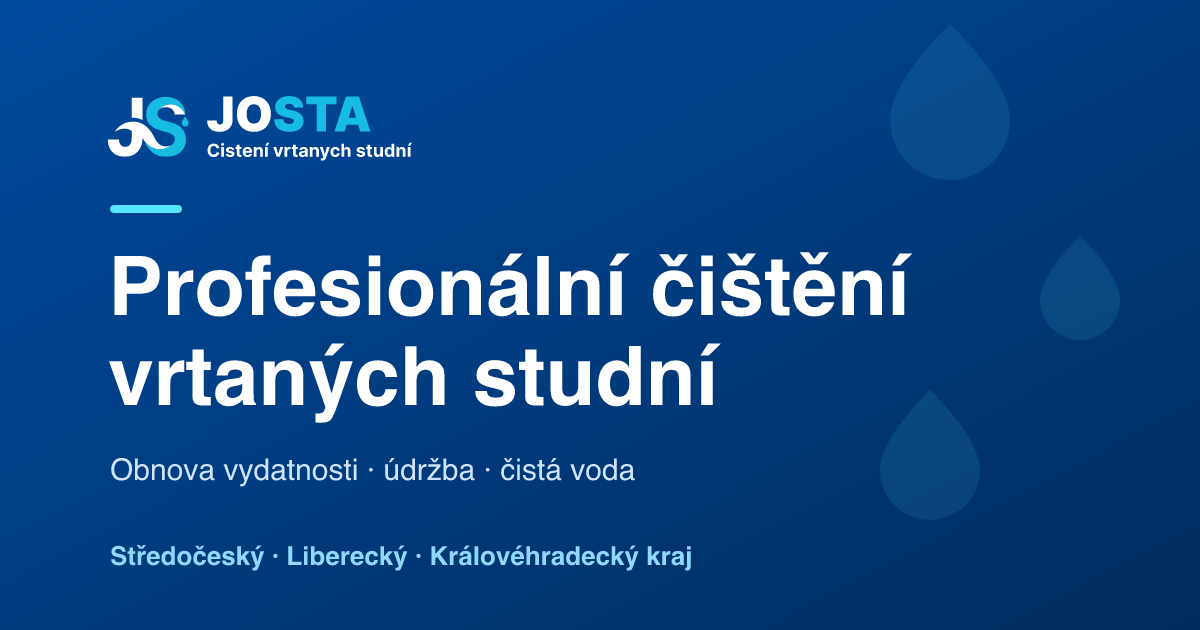
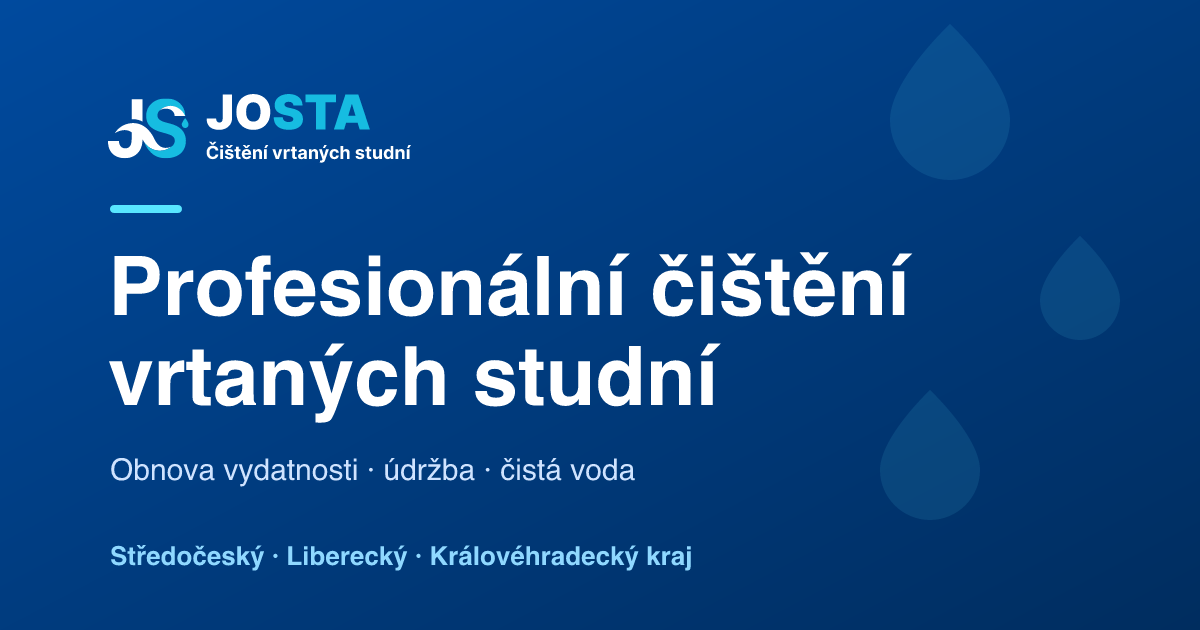
chore: responsiveness improvements

Changed region(s): [[0.0925, 0.1508, 0.3392, 0.2714]]

diff --git a/src/components/AppLogo.vue b/src/components/AppLogo.vue
@@ -13,27 +13,13 @@ withDefaults(defineProps<{ variant?: 'dark' | 'light' }>(), {
   >
     <svg
       class="logo__svg"
-      viewBox="0 0 203 44"
+      viewBox="0 0 203 46"
       fill="none"
       xmlns="http://www.w3.org/2000/svg"
       role="img"
       aria-hidden="true"
     >
-      <g clip-path="url(#logo-clip)">
-        <path fill-rule="evenodd" clip-rule="evenodd" d="M23.5902 28.7961C23.4004 28.4819 23.2106 28.1902 23.0228 27.9209V28.2201C23.0228 30.7241 22.5233 32.9 21.5251 34.7478C20.5259 36.5946 19.1406 38.0181 17.3692 39.0174C15.5968 40.0166 13.5373 40.5157 11.1901 40.5157C9.10209 40.5157 7.20871 40.1021 5.51069 39.2728C3.81172 38.4445 2.46648 37.1791 1.47303 35.4778C0.47958 33.7764 -0.0105134 31.6357 -2.59486e-05 29.0548H7.29635C7.31923 30.0797 7.50798 30.955 7.8636 31.6828C8.21922 32.4106 8.71027 32.9674 9.33666 33.3532C9.96305 33.739 10.7048 33.9314 11.5628 33.9314C12.4647 33.9314 13.2294 33.7133 13.8558 33.2773C14.4822 32.8402 14.9589 32.1979 15.2868 31.3504C15.6139 30.5029 15.7779 29.4599 15.7779 28.2201V23.2516C15.4556 22.9983 15.1019 22.7739 14.7148 22.5826C9.37669 19.9493 3.98803 24.455 4.57533 23.7123C4.54386 23.7144 4.5649 23.6727 4.64213 23.5755C5.5984 22.3807 8.03046 18.5408 13.8071 17.3716C23.9933 15.309 29.2343 23.9463 31.0419 27.783C31.5234 28.8079 32.3919 30.7059 34.6019 32.402C35.4667 33.0657 37.2134 33.647 38.4776 33.647C39.7189 33.647 40.7991 33.444 41.7191 33.04C42.2921 32.7878 42.785 32.4736 43.1978 32.0995C41.0536 34.0799 38.1124 35.543 34.7716 35.543C30.0141 35.543 26.1738 33.0347 24.0048 29.5186C23.8666 29.2653 23.7284 29.0248 23.5902 28.7961Z" fill="#003F87"/>
-        <path fill-rule="evenodd" clip-rule="evenodd" d="M42.4447 40.1854C42.0576 40.2613 41.659 40.3243 41.25 40.3756C40.3996 40.4814 39.5034 40.5349 38.5614 40.5349C35.7632 40.5349 32.103 40.008 28.951 36.9707C27.1148 35.202 25.942 33.5594 25.0096 31.6282C24.9848 31.5769 24.9658 31.5235 24.9439 31.4722C24.7637 31.0425 24.3976 30.2763 24.3976 30.2763C24.2669 30.0123 24.1363 29.7601 24.0048 29.5186C26.1738 33.0346 30.0141 35.5429 34.7716 35.5429C38.1123 35.5429 41.0536 34.0798 43.1978 32.0995C43.4476 31.8718 43.6688 31.6228 43.8605 31.3503C44.3686 30.63 44.6222 29.8007 44.6222 28.8645C44.6222 27.9924 44.3934 27.2582 43.9367 26.664C43.6173 26.2483 43.1959 25.8764 42.6724 25.5472C42.4465 25.4051 42.2025 25.2715 41.9393 25.1454C41.0641 24.7286 39.9954 24.3492 38.7311 24.0072L34.9556 22.9449C32.0334 22.1476 29.7252 20.9015 28.032 19.2065C26.3397 17.5115 25.4987 15.2277 25.5102 12.356C25.4987 10.0027 26.0603 7.9476 27.1939 6.18849C28.3284 4.43045 29.8892 3.05822 31.8751 2.07073C33.8611 1.0843 36.1188 0.590548 38.6463 0.590548C41.2195 0.590548 43.4686 1.0843 45.3925 2.07073C47.3165 3.05822 48.8143 4.43045 49.8869 6.18849C50.9585 7.9476 51.5115 9.98349 51.5458 12.2994C51.5458 12.2994 46.1352 5.5526 41.6781 5.5526C38.7444 5.5526 36.2322 6.81368 34.3492 8.79401C34.0937 9.02058 33.8735 9.27388 33.6876 9.55174L33.678 9.56668C33.2433 10.2239 33.0259 10.971 33.0259 11.8057C33.004 12.5014 33.1365 13.1084 33.4235 13.6278C33.7114 14.1461 34.1099 14.5918 34.6171 14.9648C35.1253 15.3388 35.7117 15.6605 36.3781 15.9331C37.0436 16.2045 37.7548 16.4354 38.5108 16.6256L41.6257 17.4602C43.1378 17.8396 44.5259 18.3462 45.7901 18.9789C47.0543 19.6116 48.1489 20.3885 49.0746 21.313C49.9994 22.2363 50.7192 23.3242 51.2321 24.5768C51.746 25.8283 52.0083 27.2646 52.0197 28.8837C52.0083 31.2616 51.4695 33.3211 50.4027 35.061C49.3368 36.7998 47.8018 38.1474 45.7987 39.1028C44.7852 39.5859 43.6679 39.946 42.4447 40.1854Z" fill="#16BCE1"/>
-        <path fill-rule="evenodd" clip-rule="evenodd" d="M15.7778 14.5245V1.12275H23.0228V16.0442C21.0082 14.9563 18.6056 14.315 15.7778 14.5245Z" fill="#003F87"/>
-        <path fill-rule="evenodd" clip-rule="evenodd" d="M51.5458 12.2994H44.5202C44.3848 10.7679 43.8041 9.57955 42.7773 8.73206C41.7496 7.8835 40.3566 7.46028 38.5957 7.46028C37.3992 7.46028 36.3895 7.64729 35.5658 8.02028C35.0977 8.23188 34.6924 8.49051 34.3502 8.79403C36.2322 6.81369 38.7443 5.55262 41.678 5.55262C46.1352 5.55262 49.7277 8.41035 51.5458 12.2994Z" fill="#003F87"/>
-        <path d="M52.761 15.4221C52.2364 14.6029 51.7042 13.9274 51.6988 13.9206L51.5456 13.7266L51.3924 13.9206C51.387 13.9274 50.8548 14.6029 50.3302 15.4221C49.6124 16.5429 49.2485 17.3915 49.2485 17.9444C49.2485 19.2918 50.279 20.388 51.5456 20.388C52.8123 20.388 53.8427 19.2918 53.8427 17.9444C53.8427 17.3915 53.4788 16.5429 52.761 15.4221Z" fill="#16BCE1"/>
-      </g>
-      <path d="M76.9498 0.318182H83.1771V16.2727C83.1695 17.7879 82.7869 19.1212 82.0294 20.2727C81.2794 21.4167 80.2415 22.3106 78.9157 22.9545C77.5976 23.5909 76.0786 23.9091 74.3589 23.9091C72.8665 23.9091 71.5029 23.6515 70.268 23.1364C69.0332 22.6136 68.0483 21.7955 67.3135 20.6818C66.5786 19.5606 66.215 18.1061 66.2226 16.3182H72.5407C72.5635 16.9015 72.6619 17.3939 72.8362 17.7955C73.018 18.197 73.268 18.5 73.5862 18.7045C73.9119 18.9015 74.3059 19 74.768 19C75.2377 19 75.6316 18.8977 75.9498 18.6932C76.2756 18.4886 76.5218 18.1856 76.6885 17.7841C76.8551 17.375 76.9423 16.8712 76.9498 16.2727V0.318182ZM108.717 11.9545C108.717 14.5455 108.213 16.7311 107.206 18.5114C106.198 20.2841 104.838 21.6288 103.126 22.5455C101.414 23.4545 99.5048 23.9091 97.3987 23.9091C95.2775 23.9091 93.3608 23.4508 91.6487 22.5341C89.9441 21.6098 88.5881 20.2614 87.5805 18.4886C86.5805 16.7083 86.0805 14.5303 86.0805 11.9545C86.0805 9.36364 86.5805 7.18182 87.5805 5.40909C88.5881 3.62879 89.9441 2.28409 91.6487 1.375C93.3608 0.458333 95.2775 0 97.3987 0C99.5048 0 101.414 0.458333 103.126 1.375C104.838 2.28409 106.198 3.62879 107.206 5.40909C108.213 7.18182 108.717 9.36364 108.717 11.9545ZM102.217 11.9545C102.217 10.5606 102.031 9.38636 101.66 8.43182C101.296 7.4697 100.755 6.74242 100.035 6.25C99.3229 5.75 98.4441 5.5 97.3987 5.5C96.3532 5.5 95.4707 5.75 94.751 6.25C94.0388 6.74242 93.4972 7.4697 93.126 8.43182C92.7623 9.38636 92.5805 10.5606 92.5805 11.9545C92.5805 13.3485 92.7623 14.5265 93.126 15.4886C93.4972 16.4432 94.0388 17.1705 94.751 17.6705C95.4707 18.1629 96.3532 18.4091 97.3987 18.4091C98.4441 18.4091 99.3229 18.1629 100.035 17.6705C100.755 17.1705 101.296 16.4432 101.66 15.4886C102.031 14.5265 102.217 13.3485 102.217 11.9545Z" fill="#003F87"/>
-      <path d="M124.186 7.59091C124.125 6.83333 123.841 6.24242 123.333 5.81818C122.833 5.39394 122.072 5.18182 121.049 5.18182C120.398 5.18182 119.864 5.26136 119.447 5.42045C119.038 5.57197 118.735 5.7803 118.538 6.04545C118.341 6.31061 118.239 6.61364 118.231 6.95455C118.216 7.23485 118.265 7.48864 118.379 7.71591C118.5 7.93561 118.689 8.13636 118.947 8.31818C119.205 8.49242 119.534 8.65152 119.936 8.79545C120.337 8.93939 120.814 9.06818 121.367 9.18182L123.277 9.59091C124.564 9.86364 125.667 10.2235 126.583 10.6705C127.5 11.1174 128.25 11.6439 128.833 12.25C129.417 12.8485 129.845 13.5227 130.117 14.2727C130.398 15.0227 130.542 15.8409 130.549 16.7273C130.542 18.2576 130.159 19.553 129.402 20.6136C128.644 21.6742 127.561 22.4811 126.152 23.0341C124.75 23.5871 123.064 23.8636 121.095 23.8636C119.072 23.8636 117.307 23.5644 115.799 22.9659C114.299 22.3674 113.133 21.447 112.299 20.2045C111.474 18.9545 111.057 17.3561 111.049 15.4091H117.049C117.087 16.1212 117.265 16.7197 117.583 17.2045C117.902 17.6894 118.349 18.0568 118.924 18.3068C119.508 18.5568 120.201 18.6818 121.004 18.6818C121.678 18.6818 122.242 18.5985 122.697 18.4318C123.152 18.2652 123.496 18.0341 123.731 17.7386C123.966 17.4432 124.087 17.1061 124.095 16.7273C124.087 16.3712 123.97 16.0606 123.742 15.7955C123.523 15.5227 123.159 15.2803 122.652 15.0682C122.144 14.8485 121.458 14.6439 120.595 14.4545L118.277 13.9545C116.216 13.5076 114.591 12.7614 113.402 11.7159C112.22 10.6629 111.633 9.22727 111.64 7.40909C111.633 5.93182 112.027 4.64015 112.822 3.53409C113.625 2.42045 114.735 1.55303 116.152 0.931818C117.576 0.310606 119.208 0 121.049 0C122.928 0 124.553 0.314394 125.924 0.943182C127.295 1.57197 128.352 2.45833 129.095 3.60227C129.845 4.73864 130.224 6.06818 130.231 7.59091H124.186ZM132.316 5.40909V0.318182H152.544V5.40909H145.544V23.5909H139.316V5.40909H132.316ZM158.029 23.5909H151.211L158.893 0.318182H167.529L175.211 23.5909H168.393L163.302 6.72727H163.12L158.029 23.5909ZM156.757 14.4091H169.575V19.1364H156.757V14.4091Z" fill="#16BCE1"/>
-      <path d="M74.3177 34.919H72.4512C72.4172 34.6776 72.3476 34.4631 72.2424 34.2756C72.1373 34.0852 72.0024 33.9233 71.8376 33.7898C71.6728 33.6563 71.4825 33.554 71.2666 33.483C71.0535 33.4119 70.822 33.3764 70.572 33.3764C70.1203 33.3764 69.7268 33.4886 69.3916 33.7131C69.0564 33.9347 68.7964 34.2585 68.6118 34.6847C68.4271 35.108 68.3348 35.6222 68.3348 36.2273C68.3348 36.8494 68.4271 37.3722 68.6118 37.7955C68.7993 38.2188 69.0606 38.5384 69.3958 38.7543C69.7311 38.9702 70.1189 39.0781 70.5592 39.0781C70.8064 39.0781 71.0351 39.0455 71.2453 38.9801C71.4583 38.9148 71.6473 38.8196 71.812 38.6946C71.9768 38.5668 72.1132 38.4119 72.2211 38.2301C72.3319 38.0483 72.4086 37.8409 72.4512 37.608L74.3177 37.6165C74.2694 38.017 74.1487 38.4034 73.9555 38.7756C73.7652 39.1449 73.5081 39.4759 73.1842 39.7685C72.8632 40.0582 72.4797 40.2884 72.0336 40.4588C71.5905 40.6264 71.089 40.7102 70.5294 40.7102C69.751 40.7102 69.0549 40.5341 68.4413 40.1818C67.8305 39.8295 67.3476 39.3196 66.9924 38.652C66.6402 37.9844 66.464 37.1761 66.464 36.2273C66.464 35.2756 66.643 34.4659 67.001 33.7983C67.3589 33.1307 67.8447 32.6222 68.4583 32.2727C69.072 31.9205 69.7623 31.7443 70.5294 31.7443C71.0351 31.7443 71.5038 31.8153 71.9356 31.9574C72.3703 32.0994 72.7552 32.3068 73.0905 32.5795C73.4257 32.8494 73.6984 33.1804 73.9086 33.5724C74.1217 33.9645 74.2581 34.4134 74.3177 34.919ZM75.6068 40.5909V34.0455H77.4221V40.5909H75.6068ZM76.5187 33.2017C76.2488 33.2017 76.0173 33.1122 75.8241 32.9332C75.6338 32.7514 75.5386 32.5341 75.5386 32.2813C75.5386 32.0313 75.6338 31.8168 75.8241 31.6378C76.0173 31.456 76.2488 31.3651 76.5187 31.3651C76.7886 31.3651 77.0187 31.456 77.2091 31.6378C77.4022 31.8168 77.4988 32.0313 77.4988 32.2813C77.4988 32.5341 77.4022 32.7514 77.2091 32.9332C77.0187 33.1122 76.7886 33.2017 76.5187 33.2017ZM84.3223 35.9119L82.6604 36.0142C82.632 35.8722 82.5709 35.7443 82.4772 35.6307C82.3834 35.5142 82.2598 35.4219 82.1064 35.3537C81.9559 35.2827 81.7755 35.2472 81.5652 35.2472C81.284 35.2472 81.0468 35.3068 80.8536 35.4261C80.6604 35.5426 80.5638 35.6989 80.5638 35.8949C80.5638 36.0511 80.6263 36.1832 80.7513 36.2912C80.8763 36.3991 81.0908 36.4858 81.3948 36.5511L82.5794 36.7898C83.2158 36.9205 83.6902 37.1307 84.0027 37.4205C84.3152 37.7102 84.4715 38.0909 84.4715 38.5625C84.4715 38.9915 84.3451 39.3679 84.0922 39.6918C83.8422 40.0156 83.4985 40.2685 83.061 40.4503C82.6263 40.6293 82.1249 40.7188 81.5567 40.7188C80.6902 40.7188 79.9999 40.5384 79.4857 40.1776C78.9743 39.8139 78.6746 39.3196 78.5865 38.6946L80.3721 38.6009C80.426 38.8651 80.5567 39.0668 80.7641 39.206C80.9715 39.3423 81.2371 39.4105 81.561 39.4105C81.8792 39.4105 82.1348 39.3494 82.328 39.2273C82.524 39.1023 82.6235 38.9418 82.6263 38.7457C82.6235 38.581 82.5539 38.446 82.4175 38.3409C82.2811 38.233 82.0709 38.1506 81.7868 38.0938L80.6533 37.8679C80.0141 37.7401 79.5382 37.5185 79.2257 37.2031C78.9161 36.8878 78.7613 36.4858 78.7613 35.9972C78.7613 35.5767 78.8749 35.2145 79.1022 34.9105C79.3323 34.6065 79.6547 34.3722 80.0695 34.2074C80.4871 34.0426 80.9757 33.9602 81.5354 33.9602C82.3621 33.9602 83.0127 34.1349 83.4871 34.4844C83.9644 34.8338 84.2428 35.3097 84.3223 35.9119ZM89.0961 34.0455V35.4091H85.1544V34.0455H89.0961ZM86.0493 32.4773H87.8646V38.5795C87.8646 38.7472 87.8902 38.8778 87.9413 38.9716C87.9924 39.0625 88.0635 39.1264 88.1544 39.1634C88.2481 39.2003 88.3561 39.2188 88.4782 39.2188C88.5635 39.2188 88.6487 39.2116 88.7339 39.1974C88.8191 39.1804 88.8845 39.1676 88.9299 39.1591L89.2155 40.5099C89.1245 40.5384 88.9967 40.571 88.8319 40.608C88.6672 40.6477 88.4669 40.6719 88.2311 40.6804C87.7936 40.6974 87.4101 40.6392 87.0805 40.5057C86.7538 40.3722 86.4995 40.1648 86.3177 39.8835C86.1359 39.6023 86.0464 39.2472 86.0493 38.8182V32.4773ZM93.1913 40.7188C92.518 40.7188 91.9385 40.5824 91.4527 40.3097C90.9697 40.0341 90.5976 39.6449 90.3362 39.142C90.0748 38.6364 89.9441 38.0384 89.9441 37.348C89.9441 36.6747 90.0748 36.0838 90.3362 35.5753C90.5976 35.0668 90.9655 34.6705 91.4399 34.3864C91.9172 34.1023 92.4768 33.9602 93.1189 33.9602C93.5507 33.9602 93.9527 34.0298 94.3248 34.169C94.6998 34.3054 95.0265 34.5114 95.3049 34.7869C95.5862 35.0625 95.8049 35.4091 95.9612 35.8267C96.1174 36.2415 96.1956 36.7273 96.1956 37.2841V37.7827H90.6686V36.6577H94.4868C94.4868 36.3963 94.4299 36.1648 94.3163 35.9631C94.2027 35.7614 94.045 35.6037 93.8433 35.4901C93.6444 35.3736 93.4129 35.3153 93.1487 35.3153C92.8731 35.3153 92.6288 35.3793 92.4157 35.5071C92.2055 35.6321 92.0407 35.8011 91.9214 36.0142C91.8021 36.2244 91.741 36.4588 91.7382 36.7173V37.7869C91.7382 38.1108 91.7978 38.3906 91.9172 38.6264C92.0393 38.8622 92.2112 39.044 92.4328 39.1719C92.6544 39.2997 92.9172 39.3636 93.2211 39.3636C93.4228 39.3636 93.6075 39.3352 93.7751 39.2784C93.9427 39.2216 94.0862 39.1364 94.2055 39.0227C94.3248 38.9091 94.4157 38.7699 94.4782 38.6051L96.1572 38.7159C96.072 39.1193 95.8973 39.4716 95.6331 39.7727C95.3717 40.071 95.0336 40.304 94.6189 40.4716C94.2069 40.6364 93.7311 40.7188 93.1913 40.7188ZM99.1956 36.8068V40.5909H97.3802V34.0455H99.1103V35.2003H99.187C99.3319 34.8196 99.5748 34.5185 99.9157 34.2969C100.257 34.0724 100.67 33.9602 101.156 33.9602C101.61 33.9602 102.007 34.0597 102.345 34.2585C102.683 34.4574 102.946 34.7415 103.133 35.1108C103.321 35.4773 103.414 35.9148 103.414 36.4233V40.5909H101.599V36.7472C101.602 36.3466 101.5 36.0341 101.292 35.8097C101.085 35.5824 100.799 35.4688 100.436 35.4688C100.191 35.4688 99.9754 35.5213 99.7879 35.6264C99.6032 35.7315 99.4583 35.8849 99.3532 36.0866C99.251 36.2855 99.1984 36.5256 99.1956 36.8068ZM104.845 40.5909V34.0455H106.66V40.5909H104.845ZM105.105 33.2017L106.008 31.2628H107.687L106.388 33.2017H105.105ZM116.994 34.0455L114.706 40.5909H112.66L110.372 34.0455H112.29L113.649 38.7287H113.717L115.072 34.0455H116.994ZM117.923 40.5909V34.0455H119.683V35.1875H119.751C119.871 34.7813 120.071 34.4744 120.352 34.267C120.633 34.0568 120.957 33.9517 121.324 33.9517C121.415 33.9517 121.513 33.9574 121.618 33.9688C121.723 33.9801 121.815 33.9957 121.895 34.0156V35.6264C121.81 35.6009 121.692 35.5781 121.541 35.5582C121.391 35.5384 121.253 35.5284 121.128 35.5284C120.861 35.5284 120.622 35.5866 120.412 35.7031C120.204 35.8168 120.04 35.9759 119.918 36.1804C119.798 36.3849 119.739 36.6207 119.739 36.8878V40.5909H117.923ZM126.643 34.0455V35.4091H122.701V34.0455H126.643ZM123.596 32.4773H125.411V38.5795C125.411 38.7472 125.437 38.8778 125.488 38.9716C125.539 39.0625 125.61 39.1264 125.701 39.1634C125.795 39.2003 125.903 39.2188 126.025 39.2188C126.11 39.2188 126.196 39.2116 126.281 39.1974C126.366 39.1804 126.431 39.1676 126.477 39.1591L126.762 40.5099C126.671 40.5384 126.544 40.571 126.379 40.608C126.214 40.6477 126.014 40.6719 125.778 40.6804C125.34 40.6974 124.957 40.6392 124.627 40.5057C124.301 40.3722 124.046 40.1648 123.865 39.8835C123.683 39.6023 123.593 39.2472 123.596 38.8182V32.4773ZM129.692 40.7145C129.274 40.7145 128.902 40.642 128.576 40.4972C128.249 40.3494 127.99 40.1321 127.8 39.8452C127.612 39.5554 127.519 39.1946 127.519 38.7628C127.519 38.3991 127.585 38.0938 127.719 37.8466C127.853 37.5994 128.034 37.4006 128.264 37.25C128.495 37.0994 128.756 36.9858 129.049 36.9091C129.344 36.8324 129.654 36.7784 129.978 36.7472C130.358 36.7074 130.665 36.6705 130.898 36.6364C131.131 36.5994 131.3 36.5455 131.405 36.4744C131.51 36.4034 131.563 36.2983 131.563 36.1591V36.1335C131.563 35.8636 131.478 35.6548 131.307 35.5071C131.139 35.3594 130.901 35.2855 130.591 35.2855C130.264 35.2855 130.005 35.358 129.811 35.5028C129.618 35.6449 129.49 35.8239 129.428 36.0398L127.749 35.9034C127.834 35.5057 128.002 35.1619 128.252 34.8722C128.502 34.5795 128.824 34.3551 129.219 34.1989C129.617 34.0398 130.077 33.9602 130.6 33.9602C130.963 33.9602 131.311 34.0028 131.644 34.0881C131.979 34.1733 132.276 34.3054 132.534 34.4844C132.796 34.6634 133.002 34.8935 133.152 35.1747C133.303 35.4531 133.378 35.7869 133.378 36.1761V40.5909H131.657V39.6832H131.605C131.5 39.8878 131.36 40.0682 131.183 40.2244C131.007 40.3778 130.796 40.4986 130.549 40.5866C130.301 40.6719 130.016 40.7145 129.692 40.7145ZM130.212 39.4616C130.479 39.4616 130.715 39.4091 130.919 39.304C131.124 39.196 131.284 39.0511 131.401 38.8693C131.517 38.6875 131.576 38.4815 131.576 38.2514V37.5568C131.519 37.5938 131.441 37.6278 131.341 37.6591C131.245 37.6875 131.135 37.7145 131.013 37.7401C130.891 37.7628 130.769 37.7841 130.647 37.804C130.524 37.821 130.414 37.8366 130.314 37.8509C130.101 37.8821 129.915 37.9318 129.756 38C129.597 38.0682 129.473 38.1605 129.385 38.277C129.297 38.3906 129.253 38.5327 129.253 38.7031C129.253 38.9503 129.343 39.1392 129.522 39.2699C129.703 39.3977 129.933 39.4616 130.212 39.4616ZM136.602 36.8068V40.5909H134.786V34.0455H136.517V35.2003H136.593C136.738 34.8196 136.981 34.5185 137.322 34.2969C137.663 34.0724 138.076 33.9602 138.562 33.9602C139.017 33.9602 139.413 34.0597 139.751 34.2585C140.089 34.4574 140.352 34.7415 140.539 35.1108C140.727 35.4773 140.821 35.9148 140.821 36.4233V40.5909H139.005V36.7472C139.008 36.3466 138.906 36.0341 138.698 35.8097C138.491 35.5824 138.206 35.4688 137.842 35.4688C137.598 35.4688 137.382 35.5213 137.194 35.6264C137.009 35.7315 136.865 35.8849 136.759 36.0866C136.657 36.2855 136.605 36.5256 136.602 36.8068ZM143.138 43.0455C142.908 43.0455 142.692 43.027 142.49 42.9901C142.291 42.956 142.126 42.9119 141.996 42.858L142.405 41.5028C142.618 41.5682 142.81 41.6037 142.98 41.6094C143.153 41.6151 143.302 41.5753 143.427 41.4901C143.555 41.4048 143.659 41.2599 143.739 41.0554L143.845 40.7784L141.497 34.0455H143.406L144.761 38.8523H144.829L146.197 34.0455H148.119L145.575 41.2983C145.453 41.6506 145.287 41.9574 145.077 42.2188C144.869 42.483 144.606 42.6861 144.288 42.8281C143.97 42.973 143.587 43.0455 143.138 43.0455ZM151.795 40.7188C151.124 40.7188 150.547 40.5767 150.065 40.2926C149.584 40.0057 149.215 39.608 148.957 39.0994C148.701 38.5909 148.573 38.0057 148.573 37.3438C148.573 36.6733 148.702 36.0852 148.961 35.5795C149.222 35.071 149.593 34.6747 150.073 34.3906C150.553 34.1037 151.124 33.9602 151.786 33.9602C152.357 33.9602 152.857 34.0639 153.286 34.2713C153.715 34.4787 154.055 34.7699 154.305 35.1449C154.555 35.5199 154.692 35.9602 154.718 36.4659H153.005C152.957 36.1392 152.829 35.8764 152.621 35.6776C152.417 35.4759 152.148 35.375 151.816 35.375C151.535 35.375 151.289 35.4517 151.079 35.6051C150.871 35.7557 150.709 35.9759 150.593 36.2656C150.476 36.5554 150.418 36.9063 150.418 37.3182C150.418 37.7358 150.475 38.0909 150.589 38.3835C150.705 38.6761 150.869 38.8991 151.079 39.0526C151.289 39.206 151.535 39.2827 151.816 39.2827C152.023 39.2827 152.209 39.2401 152.374 39.1548C152.542 39.0696 152.68 38.946 152.788 38.7841C152.898 38.6193 152.971 38.4219 153.005 38.1918H154.718C154.69 38.6918 154.553 39.1321 154.309 39.5128C154.067 39.8906 153.734 40.1861 153.307 40.3991C152.881 40.6122 152.377 40.7188 151.795 40.7188ZM157.696 36.8068V40.5909H155.88V31.8636H157.644V35.2003H157.721C157.869 34.8139 158.107 34.5114 158.437 34.2926C158.767 34.071 159.18 33.9602 159.677 33.9602C160.132 33.9602 160.528 34.0597 160.866 34.2585C161.207 34.4545 161.471 34.7372 161.659 35.1065C161.849 35.473 161.943 35.9119 161.94 36.4233V40.5909H160.125V36.7472C160.127 36.3438 160.025 36.0298 159.818 35.8054C159.613 35.581 159.326 35.4688 158.957 35.4688C158.71 35.4688 158.491 35.5213 158.301 35.6264C158.113 35.7315 157.965 35.8849 157.857 36.0866C157.752 36.2855 157.698 36.5256 157.696 36.8068ZM171.592 35.9119L169.93 36.0142C169.902 35.8722 169.84 35.7443 169.747 35.6307C169.653 35.5142 169.529 35.4219 169.376 35.3537C169.225 35.2827 169.045 35.2472 168.835 35.2472C168.554 35.2472 168.316 35.3068 168.123 35.4261C167.93 35.5426 167.833 35.6989 167.833 35.8949C167.833 36.0511 167.896 36.1832 168.021 36.2912C168.146 36.3991 168.36 36.4858 168.664 36.5511L169.849 36.7898C170.485 36.9205 170.96 37.1307 171.272 37.4205C171.585 37.7102 171.741 38.0909 171.741 38.5625C171.741 38.9915 171.615 39.3679 171.362 39.6918C171.112 40.0156 170.768 40.2685 170.331 40.4503C169.896 40.6293 169.394 40.7188 168.826 40.7188C167.96 40.7188 167.269 40.5384 166.755 40.1776C166.244 39.8139 165.944 39.3196 165.856 38.6946L167.642 38.6009C167.696 38.8651 167.826 39.0668 168.034 39.206C168.241 39.3423 168.507 39.4105 168.831 39.4105C169.149 39.4105 169.404 39.3494 169.598 39.2273C169.794 39.1023 169.893 38.9418 169.896 38.7457C169.893 38.581 169.823 38.446 169.687 38.3409C169.551 38.233 169.34 38.1506 169.056 38.0938L167.923 37.8679C167.284 37.7401 166.808 37.5185 166.495 37.2031C166.186 36.8878 166.031 36.4858 166.031 35.9972C166.031 35.5767 166.144 35.2145 166.372 34.9105C166.602 34.6065 166.924 34.3722 167.339 34.2074C167.757 34.0426 168.245 33.9602 168.805 33.9602C169.632 33.9602 170.282 34.1349 170.757 34.4844C171.234 34.8338 171.512 35.3097 171.592 35.9119ZM176.366 34.0455V35.4091H172.424V34.0455H176.366ZM173.319 32.4773H175.134V38.5795C175.134 38.7472 175.16 38.8778 175.211 38.9716C175.262 39.0625 175.333 39.1264 175.424 39.1634C175.518 39.2003 175.626 39.2188 175.748 39.2188C175.833 39.2188 175.918 39.2116 176.003 39.1974C176.089 39.1804 176.154 39.1676 176.199 39.1591L176.485 40.5099C176.394 40.5384 176.266 40.571 176.101 40.608C175.937 40.6477 175.736 40.6719 175.501 40.6804C175.063 40.6974 174.68 40.6392 174.35 40.5057C174.023 40.3722 173.769 40.1648 173.587 39.8835C173.405 39.6023 173.316 39.2472 173.319 38.8182V32.4773ZM181.746 37.804V34.0455H183.561V40.5909H181.818V39.402H181.75C181.602 39.7855 181.356 40.0938 181.013 40.3267C180.672 40.5597 180.256 40.6761 179.764 40.6761C179.327 40.6761 178.942 40.5767 178.609 40.3778C178.277 40.179 178.017 39.8963 177.829 39.5298C177.645 39.1634 177.551 38.7244 177.548 38.2131V34.0455H179.364V37.8892C179.366 38.2756 179.47 38.581 179.675 38.8054C179.879 39.0298 180.153 39.142 180.497 39.142C180.716 39.142 180.92 39.0923 181.111 38.9929C181.301 38.8906 181.454 38.7401 181.571 38.5412C181.69 38.3423 181.748 38.0966 181.746 37.804ZM187.425 40.6974C186.928 40.6974 186.478 40.5696 186.074 40.3139C185.674 40.0554 185.355 39.6761 185.12 39.1761C184.887 38.6733 184.77 38.0568 184.77 37.3267C184.77 36.5767 184.891 35.9531 185.132 35.456C185.374 34.956 185.695 34.5824 186.095 34.3352C186.499 34.0852 186.941 33.9602 187.421 33.9602C187.787 33.9602 188.093 34.0227 188.337 34.1477C188.584 34.2699 188.783 34.4233 188.933 34.608C189.087 34.7898 189.203 34.9688 189.283 35.1449H189.338V31.8636H191.149V40.5909H189.36V39.5426H189.283C189.198 39.7244 189.077 39.9048 188.921 40.0838C188.767 40.2599 188.567 40.4063 188.32 40.5227C188.076 40.6392 187.777 40.6974 187.425 40.6974ZM188 39.2528C188.293 39.2528 188.54 39.1733 188.742 39.0142C188.946 38.8523 189.103 38.6264 189.21 38.3366C189.321 38.0469 189.377 37.7074 189.377 37.3182C189.377 36.929 189.323 36.5909 189.215 36.304C189.107 36.017 188.951 35.7955 188.746 35.6392C188.541 35.483 188.293 35.4048 188 35.4048C187.702 35.4048 187.451 35.4858 187.246 35.6477C187.041 35.8097 186.887 36.0341 186.782 36.321C186.676 36.608 186.624 36.9403 186.624 37.3182C186.624 37.6989 186.676 38.0355 186.782 38.3281C186.889 38.6179 187.044 38.8452 187.246 39.0099C187.451 39.1719 187.702 39.2528 188 39.2528ZM194.457 36.8068V40.5909H192.642V34.0455H194.372V35.2003H194.449C194.594 34.8196 194.837 34.5185 195.177 34.2969C195.518 34.0724 195.932 33.9602 196.418 33.9602C196.872 33.9602 197.268 34.0597 197.606 34.2585C197.944 34.4574 198.207 34.7415 198.395 35.1108C198.582 35.4773 198.676 35.9148 198.676 36.4233V40.5909H196.861V36.7472C196.864 36.3466 196.761 36.0341 196.554 35.8097C196.346 35.5824 196.061 35.4688 195.697 35.4688C195.453 35.4688 195.237 35.5213 195.05 35.6264C194.865 35.7315 194.72 35.8849 194.615 36.0866C194.513 36.2855 194.46 36.5256 194.457 36.8068ZM200.107 40.5909V34.0455H201.922V40.5909H200.107ZM200.367 33.2017L201.27 31.2628H202.949L201.649 33.2017H200.367Z" fill="#003F87"/>
-      <defs>
-        <clipPath id="logo-clip">
-          <rect width="53.8589" height="40" fill="white" transform="translate(0 0.59091)"/>
-        </clipPath>
-      </defs>
+      <clipPath id="a"><path d="m0 2.90527h53.8589v40h-53.8589z"/></clipPath><g clip-path="url(#a)"><g clip-rule="evenodd" fill-rule="evenodd"><path d="m23.5904 31.1113c-.1898-.3142-.3796-.6059-.5674-.8752v.2993c0 2.504-.4995 4.6799-1.4977 6.5277-.9992 1.8467-2.3845 3.2702-4.1559 4.2695-1.7724.9992-3.8319 1.4983-6.1792 1.4983-2.08792 0-3.9813-.4136-5.67932-1.2429-1.69897-.8282-3.04421-2.0936-4.03766-3.795s-1.4835427-3.8421-1.47305521-6.423h7.29637521c.02289 1.0249.21163 1.9002.56725 2.628s.84667 1.2846 1.47306 1.6704 1.36815.5782 2.22615.5782c.9019 0 1.6666-.218 2.293-.6541.6264-.4371 1.1031-1.0794 1.431-1.9269.327-.8475.491-1.8905.491-3.1302v-4.9685c-.3222-.2533-.6759-.4777-1.063-.669-5.33812-2.6333-10.72678 1.8724-10.13948 1.1296-.03147.0021-.01043-.0395.0668-.1368.95627-1.1948 3.38833-5.0347 9.16498-6.2039 10.1862-2.0626 15.4271 6.5747 17.2348 10.4114.4815 1.0249 1.35 2.923 3.56 4.619.8648.6637 2.6115 1.2451 3.8757 1.2451 1.2413 0 2.3214-.2031 3.2415-.6071.573-.2522 1.0659-.5664 1.4787-.9404-2.1442 1.9803-5.0854 3.4434-8.4262 3.4434-4.7575 0-8.5978-2.5083-10.7668-6.0244-.1382-.2533-.2764-.4937-.4146-.7225z" fill="#003f87"/><path d="m42.4448 42.5002c-.3871.0758-.7857.1389-1.1947.1902-.8504.1058-1.7466.1592-2.6885.1592-2.7983 0-6.4585-.5268-9.6105-3.5641-1.8362-1.7688-3.0089-3.4114-3.9414-5.3426-.0248-.0513-.0438-.1047-.0657-.156-.1802-.4296-.5463-1.1959-.5463-1.1959-.1306-.264-.2612-.5162-.3928-.7577 2.169 3.5161 6.0093 6.0244 10.7668 6.0244 3.3407 0 6.282-1.4632 8.4262-3.4435.2498-.2276.471-.4766.6627-.7491.5081-.7204.7617-1.5497.7617-2.4859 0-.872-.2288-1.6063-.6855-2.2005-.3194-.4157-.7408-.7876-1.2643-1.1168-.2259-.1421-.4699-.2757-.733-.4018-.8753-.4168-1.944-.7962-3.2083-1.1382l-3.7755-1.0623c-2.9222-.7973-5.2304-2.0434-6.9236-3.7383-1.6923-1.695-2.5332-3.9789-2.5218-6.8506-.0114-2.3533.5501-4.4084 1.6837-6.16748 1.1346-1.75804 2.6953-3.13027 4.6813-4.11776 1.9859-.98643 4.2436-1.48019 6.7711-1.48019 2.5733 0 4.8223.49376 6.7462 1.48019 1.924.98749 3.4218 2.35972 4.4944 4.11776 1.0716 1.75908 1.6246 3.79498 1.6589 6.11088 0 0-5.4105-6.74677-9.8677-6.74677-2.9337 0-5.4459 1.26107-7.3289 3.24137-.2555.2266-.4757.4799-.6616.7578l-.0096.0149c-.4347.6573-.652 1.4043-.652 2.239-.022.6957.1105 1.3027.3975 1.8221.2879.5183.6864.964 1.1936 1.337.5082.3741 1.0946.6958 1.761.9683.6655.2714 1.3767.5023 2.1327.6925l3.1149.8346c1.5121.3794 2.9002.886 4.1644 1.5187s2.3588 1.4097 3.2846 2.3341c.9248.9234 1.6445 2.0113 2.1575 3.2638.5138 1.2515.7761 2.6879.7875 4.307-.0114 2.3779-.5501 4.4373-1.617 6.1772-1.0659 1.7388-2.6009 3.0864-4.604 4.0418-1.0135.4831-2.1308.8433-3.354 1.0827z" fill="#16bce1"/><path d="m15.7778 16.8392v-13.4017h7.245v14.9215c-2.0146-1.088-4.4172-1.7292-7.245-1.5198z" fill="#003f87"/><path d="m51.5458 14.614h-7.0257c-.1354-1.5315-.716-2.7199-1.7428-3.5674-1.0278-.8485-2.4207-1.27175-4.1817-1.27175-1.1965 0-2.2061.18701-3.0299.55995-.4681.2116-.8733.4703-1.2156.7738 1.882-1.98034 4.3942-3.24141 7.3278-3.24141 4.4572 0 8.0497 2.85771 9.8679 6.74681z" fill="#003f87"/></g><path d="m52.7615 17.7365c-.5246-.8192-1.0568-1.4947-1.0621-1.5015l-.1533-.194-.1532.194c-.0053.0068-.5375.6823-1.0621 1.5015-.7178 1.1208-1.0818 1.9694-1.0818 2.5223 0 1.3474 1.0305 2.4436 2.2971 2.4436 1.2667 0 2.2972-1.0962 2.2972-2.4436 0-.5529-.364-1.4015-1.0818-2.5223z" fill="#16bce1"/></g><path d="m157.666 23.5911h-6.818l7.681-23.272741h8.637l7.682 23.272741h-6.819l-5.09-16.86365h-.182zm-1.273-9.1818h12.818v4.7272h-12.818z" fill="#16bce1"/><path d="m131.953 5.40927v-5.090911h20.227v5.090911h-7v18.18183h-6.227v-18.18183z" fill="#16bce1"/><path d="m123.822 7.59091c-.06-.75758-.344-1.34849-.852-1.77273-.5-.42424-1.261-.63636-2.284-.63636-.651 0-1.186.07954-1.602.23863-.409.15152-.712.35985-.909.625-.197.26516-.3.56819-.307.9091-.015.2803.034.53409.148.76136.121.2197.31.42045.568.60227.257.17424.587.33334.988.47727.402.14394.879.27273 1.432.38637l1.909.40909c1.288.27273 2.39.63259 3.307 1.07959.917.4469 1.667.9734 2.25 1.5795.583.5985 1.011 1.2727 1.284 2.0227.281.75.424 1.5682.432 2.4546-.008 1.5303-.39 2.8257-1.148 3.8863-.757 1.0606-1.841 1.8675-3.25 2.4205-1.401.553-3.087.8295-5.057.8295-2.022 0-3.787-.2992-5.295-.8977-1.5-.5985-2.667-1.5189-3.5-2.7614-.826-1.25-1.242-2.8484-1.25-4.7954h6c.038.7121.216 1.3106.534 1.7954.318.4849.765.8523 1.341 1.1023.583.25 1.277.375 2.08.375.674 0 1.238-.0833 1.693-.25.454-.1666.799-.3977 1.034-.6932.235-.2954.356-.6325.363-1.0113-.007-.3561-.125-.6667-.352-.9318-.219-.2728-.583-.5152-1.091-.7273-.507-.2197-1.193-.4243-2.057-.6137l-2.318-.5c-2.06-.4469-3.685-1.1931-4.875-2.2386-1.182-1.053-1.769-2.48863-1.761-4.30681-.008-1.47727.386-2.76894 1.182-3.875.803-1.11364 1.913-1.98106 3.329-2.602272 1.425-.621212 3.057-.931818 4.898-.931818 1.879 0 3.504.314394 4.875.943182s2.428 1.515148 3.17 2.659088c.75 1.13637 1.129 2.46591 1.137 3.98864z" fill="#16bce1"/><g fill="#003f87"><path d="m108.354 11.9545c0 2.591-.504 4.7766-1.512 6.5569-1.007 1.7727-2.367 3.1174-4.079 4.0341-1.712.909-3.6215 1.3636-5.7275 1.3636-2.1212 0-4.0379-.4583-5.75-1.375-1.7046-.9243-3.0606-2.2727-4.0682-4.0455-1-1.7803-1.5-3.9583-1.5-6.5341 0-2.59086.5-4.77268 1.5-6.54541 1.0076-1.7803 2.3636-3.125 4.0682-4.03409 1.7121-.916667 3.6288-1.375 5.75-1.375 2.106 0 4.0155.458333 5.7275 1.375 1.712.90909 3.072 2.25379 4.079 4.03409 1.008 1.77273 1.512 3.95455 1.512 6.54541zm-6.5 0c0-1.3939-.186-2.56814-.557-3.52268-.364-.96212-.905-1.6894-1.6252-2.18182-.7121-.5-1.5909-.75-2.6363-.75-1.0455 0-1.9281.25-2.6478.75-.7121.49242-1.2537 1.2197-1.625 2.18182-.3636.95454-.5454 2.12878-.5454 3.52268 0 1.394.1818 2.572.5454 3.5341.3713.9546.9129 1.6819 1.625 2.1819.7197.4924 1.6023.7386 2.6478.7386 1.0454 0 1.9242-.2462 2.6363-.7386.7202-.5 1.2612-1.2273 1.6252-2.1819.371-.9621.557-2.1401.557-3.5341z"/><path d="m76.5863.318359h6.2272v15.954541c-.0075 1.5152-.3901 2.8485-1.1477 4-.75 1.1439-1.7879 2.0379-3.1136 2.6818-1.3182.6364-2.8371.9546-4.5568.9546-1.4925 0-2.8561-.2576-4.0909-.7728-1.2349-.5227-2.2197-1.3409-2.9546-2.4545-.7348-1.1212-1.0985-2.5758-1.0909-4.3636h6.3182c.0227.5833.1212 1.0757.2954 1.4772.1819.4015.4319.7046.75.9091.3258.197.7197.2955 1.1819.2955.4697 0 .8636-.1023 1.1818-.3068.3257-.2046.5719-.5076.7386-.9091.1667-.4091.2538-.9129.2614-1.5114z"/><path d="m199.502 43.3555v-6.5455h1.815v6.5455zm.26-7.3892.903-1.939h1.679l-1.299 1.939z"/><path d="m193.852 39.5712v3.7841h-1.815v-6.5455h1.73v1.1549h.077c.145-.3807.388-.6819.729-.9034.341-.2245.754-.3367 1.24-.3367.454 0 .851.0994 1.189.2983s.6.483.788.8523c.187.3665.281.804.281 1.3125v4.1676h-1.815v-3.8438c.003-.4005-.1-.713-.307-.9375-.207-.2272-.493-.3409-.856-.3409-.245 0-.461.0526-.648.1577-.185.1051-.33.2585-.435.4602-.102.1989-.155.439-.158.7202z"/><path d="m186.82 43.4617c-.497 0-.948-.1278-1.351-.3835-.401-.2585-.719-.6378-.955-1.1378-.232-.5028-.349-1.1193-.349-1.8494 0-.75.121-1.3736.362-1.8707.242-.5.563-.8736.963-1.1208.404-.25.845-.375 1.326-.375.366 0 .671.0625.916.1875.247.1222.446.2756.596.4602.154.1819.27.3608.35.537h.055v-3.2813h1.811v8.7273h-1.789v-1.0483h-.077c-.085.1818-.206.3622-.362.5412-.154.1761-.354.3224-.601.4389-.245.1165-.543.1747-.895.1747zm.575-1.4446c.293 0 .54-.0795.742-.2386.204-.1619.36-.3878.468-.6776.111-.2897.167-.6292.167-1.0184s-.054-.7273-.162-1.0142c-.108-.287-.265-.5086-.469-.6648-.205-.1563-.453-.2344-.746-.2344-.298 0-.55.081-.754.2429-.205.162-.359.3864-.465.6733-.105.2869-.157.6193-.157.9972 0 .3807.052.7173.157 1.0099.108.2898.263.5171.465.6818.204.162.456.2429.754.2429z"/><path d="m181.141 40.5681v-3.7585h1.815v6.5454h-1.743v-1.1889h-.068c-.148.3835-.393.6918-.737.9247-.341.233-.757.3495-1.249.3495-.437 0-.822-.0995-1.155-.2983-.332-.1989-.592-.4816-.779-.8481-.185-.3664-.279-.8054-.282-1.3167v-4.1676h1.816v3.8437c.003.3864.106.6918.311.9162.204.2244.478.3367.822.3367.219 0 .424-.0498.614-.1492.19-.1023.344-.2528.46-.4517.119-.1989.178-.4446.175-.7372z"/><path d="m175.761 36.8104v1.3636h-3.942v-1.3636zm-3.047-1.5682h1.815v6.1023c0 .1676.026.2983.077.392.051.0909.122.1548.213.1918.094.0369.202.0554.324.0554.085 0 .17-.0071.255-.0213.086-.0171.151-.0299.196-.0384l.286 1.3509c-.091.0284-.219.061-.384.098-.164.0397-.365.0639-.6.0724-.438.0171-.821-.0412-1.151-.1747-.327-.1335-.581-.3409-.763-.6222-.182-.2812-.271-.6363-.268-1.0653z"/><path d="m170.987 38.6763-1.662.1023c-.029-.1421-.09-.2699-.183-.3835-.094-.1165-.218-.2088-.371-.277-.151-.071-.331-.1066-.541-.1066-.282 0-.519.0597-.712.179-.193.1165-.29.2727-.29.4688 0 .1562.063.2883.188.3963.125.1079.339.1946.643.2599l1.185.2387c.636.1306 1.111.3409 1.423.6306.313.2898.469.6705.469 1.1421 0 .429-.127.8054-.379 1.1292-.25.3239-.594.5767-1.032.7586-.434.1789-.936.2684-1.504.2684-.866 0-1.557-.1804-2.071-.5412-.511-.3636-.811-.8579-.899-1.4829l1.785-.0938c.054.2642.185.4659.393.6051.207.1364.473.2046.796.2046.319 0 .574-.0611.767-.1832.196-.125.296-.2856.299-.4816-.003-.1648-.073-.2997-.209-.4048-.136-.108-.347-.1903-.631-.2472l-1.133-.2258c-.639-.1279-1.115-.3495-1.428-.6648-.309-.3153-.464-.7173-.464-1.206 0-.4204.113-.7826.341-1.0866.23-.304.552-.5384.967-.7031.418-.1648.906-.2472 1.466-.2472.827 0 1.477.1747 1.952.5242.477.3494.755.8252.835 1.4275z"/><path d="m157.091 39.5711v3.7841h-1.816v-8.7273h1.765v3.3367h.076c.148-.3864.387-.6889.716-.9077.33-.2216.743-.3324 1.24-.3324.455 0 .851.0995 1.189.2983.341.196.605.4787.793.848.19.3665.284.8054.281 1.3168v4.1676h-1.815v-3.8437c.003-.4035-.1-.7174-.307-.9418-.205-.2244-.492-.3367-.861-.3367-.247 0-.466.0526-.656.1577-.188.1051-.335.2585-.443.4602-.105.1989-.159.439-.162.7202z"/><path d="m151.19 43.4831c-.671 0-1.247-.142-1.73-.4261-.48-.2869-.85-.6847-1.108-1.1932-.256-.5085-.384-1.0937-.384-1.7557 0-.6704.13-1.2585.388-1.7642.261-.5085.632-.9048 1.112-1.1889.48-.2869 1.051-.4304 1.713-.4304.571 0 1.071.1037 1.5.3111s.769.4986 1.019.8736.388.8153.413 1.321h-1.713c-.048-.3267-.176-.5895-.383-.7884-.205-.2017-.473-.3025-.806-.3025-.281 0-.527.0767-.737.2301-.207.1506-.369.3707-.486.6605-.116.2898-.175.6406-.175 1.0526 0 .4176.057.7727.171 1.0653.116.2926.28.5156.49.669s.456.2302.737.2302c.208 0 .394-.0427.558-.1279.168-.0852.306-.2088.414-.3707.111-.1648.183-.3622.217-.5924h1.713c-.028.5-.165.9404-.409 1.3211-.241.3778-.575.6733-1.001.8863-.426.2131-.931.3196-1.513.3196z"/><path d="m142.533 45.81c-.23 0-.446-.0185-.648-.0554-.199-.0341-.364-.0781-.494-.1321l.409-1.3551c.213.0653.405.1009.575.1065.173.0057.322-.0341.447-.1193.128-.0852.232-.2301.312-.4346l.106-.277-2.348-6.733h1.909l1.355 4.8068h.068l1.368-4.8068h1.922l-2.544 7.2529c-.122.3522-.288.659-.498.9204-.208.2642-.471.4673-.789.6094-.318.1449-.701.2173-1.15.2173zm1.005-9.8437.904-1.939h1.679l-1.3 1.939z"/><path d="m135.997 39.5712v3.7841h-1.815v-6.5455h1.73v1.1549h.076c.145-.3807.388-.6819.729-.9034.341-.2245.754-.3367 1.24-.3367.455 0 .851.0994 1.189.2983s.601.483.788.8523c.188.3665.282.804.282 1.3125v4.1676h-1.816v-3.8438c.003-.4005-.099-.713-.306-.9375-.208-.2272-.493-.3409-.857-.3409-.244 0-.46.0526-.648.1577-.184.1051-.329.2585-.434.4602-.103.1989-.155.439-.158.7202z"/><path d="m129.087 43.4789c-.418 0-.79-.0725-1.117-.2174-.326-.1477-.585-.365-.775-.6519-.188-.2898-.281-.6506-.281-1.0824 0-.3637.066-.6691.2-.9162.133-.2472.315-.446.545-.5966s.492-.2642.784-.3409c.296-.0767.606-.1307.929-.162.381-.0397.688-.0767.921-.1108.233-.0369.402-.0909.507-.1619s.158-.1761.158-.3153v-.0256c0-.2699-.086-.4787-.256-.6264-.168-.1477-.406-.2216-.716-.2216-.327 0-.587.0724-.78.2173-.193.1421-.321.321-.383.537l-1.679-.1364c.085-.3977.253-.7415.503-1.0313.25-.2926.572-.517.967-.6733.398-.159.858-.2386 1.381-.2386.363 0 .711.0426 1.044.1278.335.0853.632.2174.89.3964.262.1789.468.409.618.6903.151.2784.226.6122.226 1.0014v4.4148h-1.722v-.9077h-.051c-.105.2046-.246.385-.422.5412-.176.1534-.387.2742-.635.3622-.247.0853-.532.1279-.856.1279zm.52-1.2529c.267 0 .503-.0525.707-.1576.205-.108.365-.2529.482-.4347.116-.1818.174-.3878.174-.6179v-.6946c-.056.0369-.135.071-.234.1023-.097.0284-.206.0554-.328.0809-.122.0228-.244.0441-.367.064-.122.017-.233.0326-.332.0468-.213.0313-.399.081-.558.1492s-.283.1605-.371.277c-.088.1136-.132.2557-.132.4261 0 .2472.089.4361.268.5668.182.1278.412.1917.691.1917z"/><path d="m126.038 36.8104v1.3636h-3.942v-1.3636zm-3.047-1.5682h1.815v6.1023c0 .1676.026.2983.077.392.051.0909.122.1548.213.1918.094.0369.202.0554.324.0554.085 0 .171-.0071.256-.0213.085-.0171.15-.0299.196-.0384l.285 1.3509c-.091.0284-.218.061-.383.098-.165.0397-.365.0639-.601.0724-.438.0171-.821-.0412-1.151-.1747-.326-.1335-.581-.3409-.762-.6222-.182-.2812-.272-.6363-.269-1.0653z"/><path d="m117.318 43.355v-6.5454h1.76v1.142h.068c.12-.4062.32-.7131.601-.9204.282-.2103.605-.3154.972-.3154.091 0 .189.0057.294.0171.105.0113.197.027.277.0468v1.6108c-.085-.0255-.203-.0483-.354-.0681-.15-.0199-.288-.0299-.413-.0299-.267 0-.506.0583-.716.1747-.207.1137-.372.2728-.494.4773-.12.2046-.179.4404-.179.7074v3.7031z"/><path d="m116.389 36.8096-2.288 6.5454h-2.046l-2.288-6.5454h1.918l1.359 4.6832h.068l1.355-4.6832z"/><path d="m104.24 43.3555v-6.5455h1.816v6.5455zm.26-7.3892.904-1.939h1.679l-1.3 1.939z"/><path d="m98.5907 39.5712v3.7841h-1.8153v-6.5455h1.7301v1.1549h.0767c.1449-.3807.3878-.6819.7287-.9034.3409-.2245.7541-.3367 1.2401-.3367.455 0 .851.0994 1.189.2983s.601.483.788.8523c.188.3665.281.804.281 1.3125v4.1676h-1.815v-3.8438c.003-.4005-.099-.713-.307-.9375-.207-.2272-.493-.3409-.8562-.3409-.2443 0-.4602.0526-.6477.1577-.1847.1051-.3296.2585-.4347.4602-.1023.1989-.1548.439-.1577.7202z"/><path d="m92.5865 43.4829c-.6733 0-1.2528-.1364-1.7386-.4091-.483-.2756-.8551-.6648-1.1165-1.1676-.2614-.5057-.392-1.1037-.392-1.7941 0-.6733.1306-1.2642.392-1.7727s.6293-.9048 1.1037-1.1889c.4773-.2841 1.0369-.4262 1.679-.4262.4318 0 .8338.0696 1.2059.2089.375.1363.7017.3423.9801.6178.2813.2756.5.6222.6563 1.0398.1562.4148.2344.9006.2344 1.4574v.4986h-5.527v-1.125h3.8182c0-.2614-.0568-.4929-.1705-.6946-.1136-.2017-.2713-.3594-.473-.473-.1989-.1165-.4304-.1747-.6946-.1747-.2756 0-.5199.0639-.733.1917-.2102.125-.375.2941-.4943.5071-.1193.2102-.1804.4446-.1832.7031v1.0696c0 .3239.0596.6037.179.8395.1221.2358.294.4177.5156.5455s.4844.1918.7883.1918c.2017 0 .3864-.0285.554-.0853s.3111-.142.4304-.2557c.1193-.1136.2102-.2528.2727-.4176l1.679.1108c-.0852.4034-.2599.7557-.5241 1.0568-.2614.2983-.5995.5313-1.0142.6989-.412.1648-.8878.2472-1.4276.2472zm-.9716-9.3921.8566 1.0398.8565-1.0398h1.5469v.0597l-1.7301 1.875h-1.3509l-1.7259-1.875v-.0597z"/><path d="m88.4911 36.8104v1.3636h-3.9418v-1.3636zm-3.0469-1.5682h1.8153v6.1023c0 .1676.0256.2983.0767.392.0512.0909.1222.1548.2131.1918.0938.0369.2017.0554.3239.0554.0852 0 .1704-.0071.2557-.0213.0852-.0171.1505-.0299.196-.0384l.2855 1.3509c-.0909.0284-.2188.061-.3835.098-.1648.0397-.3651.0639-.6009.0724-.4375.0171-.821-.0412-1.1505-.1747-.3268-.1335-.581-.3409-.7628-.6222-.1818-.2812-.2713-.6363-.2685-1.0653z"/><path d="m83.7172 38.676-1.6619.1023c-.0284-.142-.0895-.2699-.1832-.3835-.0938-.1165-.2174-.2088-.3708-.277-.1505-.071-.3309-.1065-.5412-.1065-.2812 0-.5184.0596-.7116.179-.1932.1164-.2898.2727-.2898.4687 0 .1563.0625.2884.1875.3963.125.108.3395.1946.6435.26l1.1846.2386c.6364.1307 1.1108.3409 1.4233.6307.3125.2897.4688.6704.4688 1.142 0 .429-.1264.8054-.3793 1.1293-.25.3238-.5937.5767-1.0312.7585-.4347.179-.9361.2685-1.5043.2685-.8665 0-1.5568-.1804-2.071-.5412-.5114-.3637-.8111-.858-.8992-1.483l1.7856-.0937c.0539.2642.1846.4659.392.6051.2074.1363.473.2045.7969.2045.3182 0 .5738-.0611.767-.1832.196-.125.2955-.2855.2983-.4815-.0028-.1648-.0724-.2998-.2088-.4049-.1364-.1079-.3466-.1903-.6307-.2471l-1.1335-.2259c-.6392-.1278-1.115-.3494-1.4275-.6648-.3097-.3153-.4645-.7173-.4645-1.2059 0-.4205.1136-.7827.3409-1.0867.2301-.3039.5525-.5383.9673-.7031.4176-.1648.9063-.2472 1.4659-.2472.8267 0 1.4773.1748 1.9517.5242.4773.3494.7557.8253.8352 1.4275zm-3.6051-4.5852.8566 1.0398.8565-1.0398h1.5469v.0597l-1.7301 1.875h-1.3509l-1.7258-1.875v-.0597z"/><path d="m75.0018 43.3557v-6.5454h1.8153v6.5454zm.9119-7.3892c-.2699 0-.5014-.0895-.6946-.2684-.1903-.1819-.2855-.3992-.2855-.652 0-.25.0952-.4645.2855-.6435.1932-.1818.4247-.2727.6946-.2727s.5.0909.6903.2727c.1932.179.2898.3935.2898.6435 0 .2528-.0966.4701-.2898.652-.1903.1789-.4204.2684-.6903.2684z"/><path d="m73.7126 37.6833h-1.8665c-.0341-.2414-.1037-.4559-.2088-.6434-.1051-.1904-.2401-.3523-.4048-.4858-.1648-.1336-.3551-.2358-.5711-.3069-.213-.071-.4446-.1065-.6946-.1065-.4517 0-.8451.1122-1.1804.3367-.3352.2216-.5951.5454-.7798.9716-.1846.4232-.277.9375-.277 1.5426 0 .6221.0924 1.1449.277 1.5681.1875.4233.4489.7429.7841.9589.3352.2159.723.3238 1.1634.3238.2471 0 .4758-.0327.686-.098.2131-.0653.402-.1605.5668-.2855.1648-.1278.3011-.2827.4091-.4645.1108-.1818.1875-.3892.2301-.6222l1.8665.0086c-.0483.4005-.1691.7869-.3622 1.1591-.1904.3693-.4475.7002-.7713.9929-.3211.2897-.7046.5198-1.1506.6903-.4432.1676-.9446.2514-1.5043.2514-.7784 0-1.4744-.1761-2.088-.5284-.6108-.3523-1.0938-.8622-1.4489-1.5298-.3523-.6676-.5284-1.4759-.5284-2.4247 0-.9517.179-1.7614.5369-2.429.358-.6676.8438-1.1761 1.4574-1.5256.6136-.3523 1.304-.5284 2.071-.5284.5057 0 .9745.071 1.4063.2131.4346.142.8196.3494 1.1548.6221.3352.2699.608.6009.8182.9929.2131.3921.3494.8409.4091 1.3466zm-4.6449-5.7741.8565 1.0398.8566-1.0398h1.5468v.0596l-1.7301 1.875h-1.3508l-1.7259-1.875v-.0596z"/></g>
     </svg>
   </RouterLink>
 </template>
@@ -49,7 +35,11 @@ withDefaults(defineProps<{ variant?: 'dark' | 'light' }>(), {
   width: auto;
 }
 
-.logo--dark path[fill='#003F87'] {
+/* dark variant (footer / navy backgrounds): recolor the navy parts to white,
+   keep the cyan (#16bce1) accent. Match ANY element carrying the navy fill —
+   the wordmark + tagline live in a <g fill="#003f87"> and inherit it, so a
+   path-only selector would miss them. Case-insensitive to survive re-exports. */
+.logo--dark [fill='#003f87' i] {
   fill: #fff;
 }
 </style>

diff --git a/src/components/sections/HeroSection.vue b/src/components/sections/HeroSection.vue
@@ -48,7 +48,7 @@ import ObfuscatedContact from '../ObfuscatedContact.vue'
 <style scoped>
 .hero {
   position: relative;
-  background: #002d5f url('/images/hero.png') right top / cover no-repeat;
+  background: #002d5f url('/images/hero.webp') right top / cover no-repeat;
   color: #fff;
   overflow: hidden;
 }
@@ -127,5 +127,19 @@ import ObfuscatedContact from '../ObfuscatedContact.vue'
 .hero__phone-number {
   font-weight: 700;
   font-size: 1.05rem;
+}
+
+@media (max-width: 560px) {
+  .hero__actions {
+    flex-direction: column;
+    align-items: stretch;
+  }
+  .hero__actions .btn--primary {
+    width: 100%;
+    justify-content: center;
+  }
+  .hero__phone {
+    width: 100%;
+  }
 }
 </style>

diff --git a/src/styles/main.css b/src/styles/main.css
@@ -53,6 +53,7 @@ body {
   line-height: 1.6;
   -webkit-font-smoothing: antialiased;
   text-rendering: optimizeLegibility;
+  overflow-x: hidden;
 }
 
 h1,
@@ -93,17 +94,17 @@ ul {
 }
 
 .section {
-  padding-block: 5rem;
+  padding-block: clamp(3rem, 8vw, 5rem);
 }
 
 .section--tight {
-  padding-block: 3.5rem;
+  padding-block: clamp(2.5rem, 6vw, 3.5rem);
 }
 
 .section__head {
   text-align: center;
   max-width: 44rem;
-  margin: 0 auto 3rem;
+  margin: 0 auto clamp(2rem, 5vw, 3rem);
 }
 
 .section__title {

diff --git a/src/components/sections/AreaSection.vue b/src/components/sections/AreaSection.vue
@@ -89,5 +89,11 @@
     grid-template-columns: 1fr;
     gap: 2rem;
   }
+  .area__content {
+    order: -1;
+  }
+  .area__map {
+    justify-self: center;
+  }
 }
 </style>

diff --git a/src/components/sections/ResultsSection.vue b/src/components/sections/ResultsSection.vue
@@ -1,19 +1,19 @@
 <script setup lang="ts">
 const steps = [
   {
-    image: '/images/before-cleaning.png',
+    image: '/images/before-cleaning.webp',
     alt: 'Studna na začátku čištění – zanesená jílem a pískem',
     title: 'Na začátku čištění',
     text: 'Vrt byl zanesený jílem a pískem.',
   },
   {
-    image: '/images/during-cleaning.png',
+    image: '/images/during-cleaning.webp',
     alt: 'Čištění studny v průběhu prací',
     title: 'V průběhu prací',
     text: 'Nasazení profi techniky. Odsáváme sedimenty ze dna, čistíme stěny vrtu a šetrně uvolňujeme přítoky vody.',
   },
   {
-    image: '/images/after-cleaning.png',
+    image: '/images/after-cleaning.webp',
     alt: 'Výsledný stav – kompletně regenerovaná studna',
     title: 'Výsledný stav',
     text: 'Kompletně regenerovaná studna. Vrt je bez usazenin, má obnovený průtok a poskytuje opět čistou vodu.',

diff --git a/src/components/sections/WhenToCleanSection.vue b/src/components/sections/WhenToCleanSection.vue
@@ -33,7 +33,7 @@ const signs = [
 
       <div class="when__media">
         <img
-          src="/images/when-to-clean.png"
+          src="/images/when-to-clean.webp"
           alt="Čistá voda tekoucí z kohoutku"
           class="when__img"
           loading="lazy"